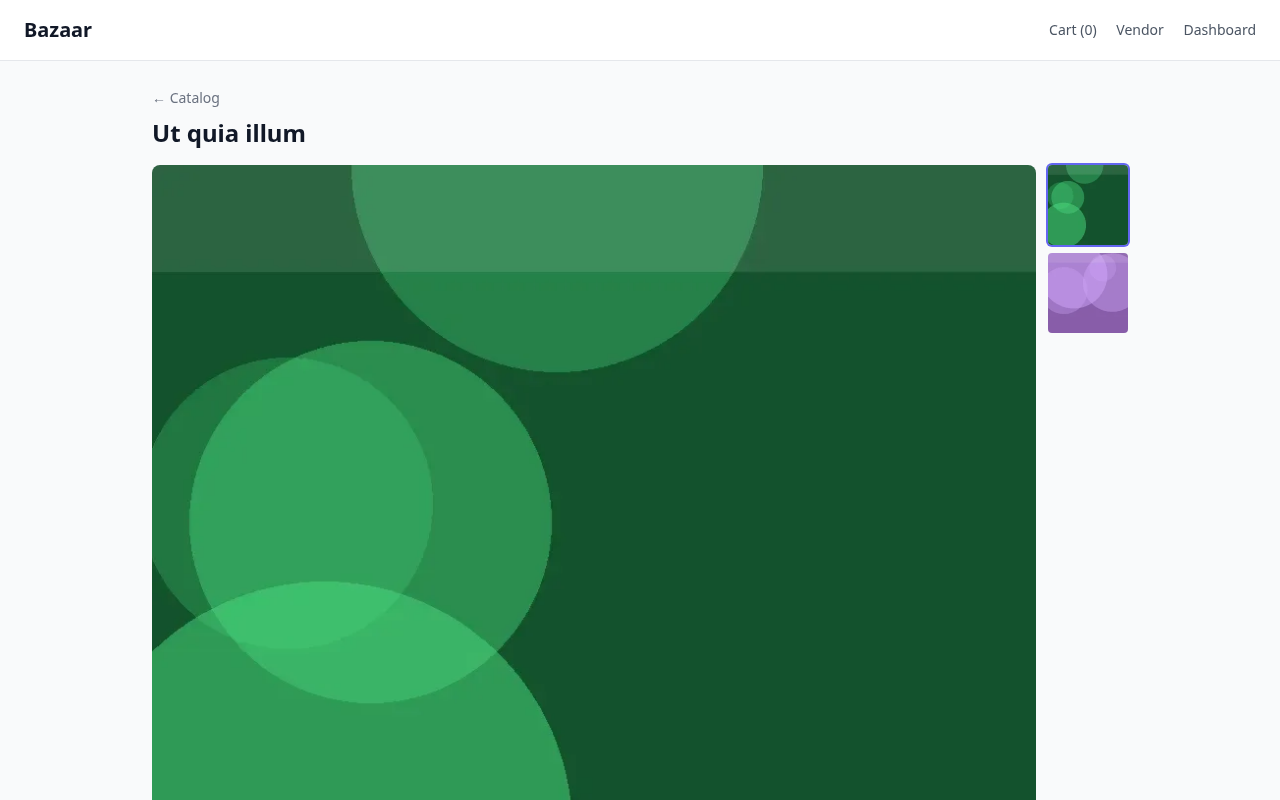
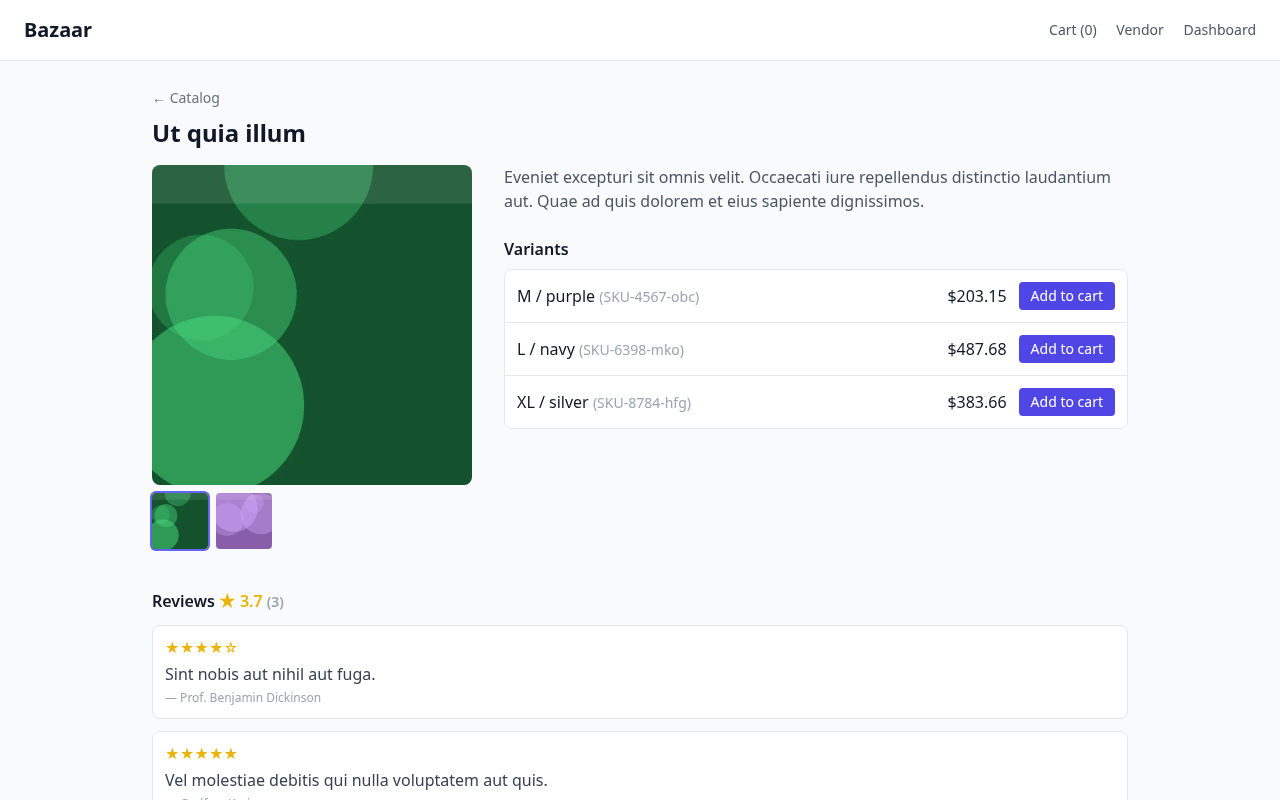
fix: keep the product gallery compact beside the description

diff --git a/resources/views/livewire/pages/catalog/show.blade.php b/resources/views/livewire/pages/catalog/show.blade.php
@@ -54,56 +54,60 @@ $submitReview = function () {
     <a href="{{ route('catalog.index') }}" class="text-sm text-gray-500">&larr; {{ __('Catalog') }}</a>
     <h1 class="text-2xl font-bold mt-2">{{ $product->title }}</h1>
 
-    @if ($product->images->isNotEmpty())
-        {{-- Gallery: big picture + thumbnails; purely client-side, no round trips --}}
-        <div class="mt-4 grid gap-3 md:grid-cols-[1fr_5rem]" x-data="{ active: 0 }" wire:ignore>
-            <div class="aspect-square bg-gray-100 rounded-lg overflow-hidden">
-                @foreach ($product->images as $image)
-                    <img x-show="active === {{ $loop->index }}" src="{{ $image->url('large') }}"
-                         alt="{{ $product->title }}" class="w-full h-full object-contain" @if (! $loop->first) x-cloak @endif>
-                @endforeach
-            </div>
-            @if ($product->images->count() > 1)
-                <div class="flex md:flex-col gap-2">
+    <div class="mt-4 md:flex md:gap-8 md:items-start">
+        @if ($product->images->isNotEmpty())
+            {{-- Gallery: compact column, big picture + thumbnails; purely client-side --}}
+            <div class="md:w-80 shrink-0" x-data="{ active: 0 }" wire:ignore>
+                <div class="aspect-square w-full bg-gray-100 rounded-lg overflow-hidden">
                     @foreach ($product->images as $image)
-                        <button type="button" @click="active = {{ $loop->index }}"
-                                :class="active === {{ $loop->index }} ? 'ring-2 ring-indigo-500' : 'opacity-70 hover:opacity-100'"
-                                class="w-20 h-20 rounded overflow-hidden bg-gray-100">
-                            <img src="{{ $image->url('thumb') }}" alt="" class="w-full h-full object-cover">
-                        </button>
+                        <img x-show="active === {{ $loop->index }}" src="{{ $image->url('large') }}"
+                             alt="{{ $product->title }}" class="w-full h-full object-contain" @if (! $loop->first) x-cloak @endif>
                     @endforeach
                 </div>
-            @endif
+                @if ($product->images->count() > 1)
+                    <div class="flex gap-2 mt-2">
+                        @foreach ($product->images as $image)
+                            <button type="button" @click="active = {{ $loop->index }}"
+                                    :class="active === {{ $loop->index }} ? 'ring-2 ring-indigo-500' : 'opacity-70 hover:opacity-100'"
+                                    class="w-14 h-14 rounded overflow-hidden bg-gray-100">
+                                <img src="{{ $image->url('thumb') }}" alt="" class="w-full h-full object-cover">
+                            </button>
+                        @endforeach
+                    </div>
+                @endif
+            </div>
+        @endif
+
+        <div class="flex-1 mt-6 md:mt-0">
+            <p class="text-gray-600">{{ $product->description }}</p>
+
+            <h2 class="font-semibold mt-6 mb-2">{{ __('Variants') }}</h2>
+            <ul class="divide-y border rounded-lg bg-white">
+                @foreach ($product->variants as $variant)
+                    <li class="flex items-center justify-between p-3" wire:key="variant-{{ $variant->id }}">
+                        <span>{{ $variant->name }}
+                            <span class="text-gray-400 text-sm">({{ $variant->sku }})</span></span>
+
+                        <div class="flex items-center gap-3">
+                            <span>{{ money($variant->price_cents) }}</span>
+
+                            @if ($variant->stock > 0)
+                                <button wire:click="addToCart({{ $variant->id }})"
+                                        class="text-sm px-3 py-1 rounded bg-indigo-600 text-white hover:bg-indigo-700">
+                                    {{ __('Add to cart') }}
+                                </button>
+                                @if ($justAdded === $variant->id)
+                                    <span class="text-green-600 text-sm">{{ __('Added') }}</span>
+                                @endif
+                            @else
+                                <span class="text-gray-400 text-sm">{{ __('Out of stock') }}</span>
+                            @endif
+                        </div>
+                    </li>
+                @endforeach
+            </ul>
         </div>
-    @endif
-
-    <p class="text-gray-600 mt-4">{{ $product->description }}</p>
-
-    <h2 class="font-semibold mt-6 mb-2">{{ __('Variants') }}</h2>
-    <ul class="divide-y border rounded-lg bg-white">
-        @foreach ($product->variants as $variant)
-            <li class="flex items-center justify-between p-3" wire:key="variant-{{ $variant->id }}">
-                <span>{{ $variant->name }}
-                    <span class="text-gray-400 text-sm">({{ $variant->sku }})</span></span>
-
-                <div class="flex items-center gap-3">
-                    <span>{{ money($variant->price_cents) }}</span>
-
-                    @if ($variant->stock > 0)
-                        <button wire:click="addToCart({{ $variant->id }})"
-                                class="text-sm px-3 py-1 rounded bg-indigo-600 text-white hover:bg-indigo-700">
-                            {{ __('Add to cart') }}
-                        </button>
-                        @if ($justAdded === $variant->id)
-                            <span class="text-green-600 text-sm">{{ __('Added') }}</span>
-                        @endif
-                    @else
-                        <span class="text-gray-400 text-sm">{{ __('Out of stock') }}</span>
-                    @endif
-                </div>
-            </li>
-        @endforeach
-    </ul>
+    </div>
 
     {{-- Reviews --}}
     <div class="mt-10">
